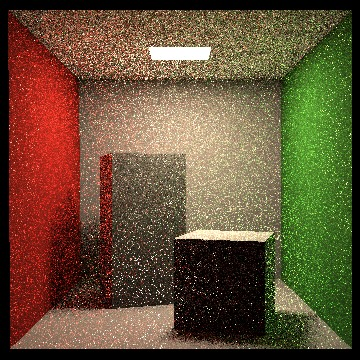
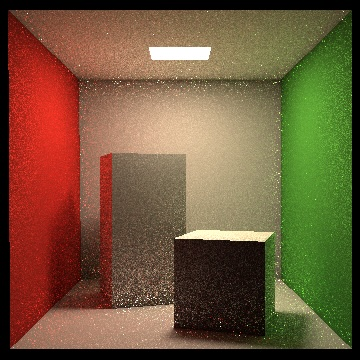
update README.md

diff --git a/src/Renderer.cpp b/src/Renderer.cpp
@@ -18,8 +18,8 @@ void render_thread(std::vector<Vector3f>& framebuffer0, std::vector<Vector3f>& f
         for (int j = 0; j < scene.width; j++) {
             int index = i * scene.width + j;
             for (int k = 0; k < spp; k++) {
-//                framebuffer0[index] += scene.pathTracing(scene.camera_->generateRay(i, j), 0) / spp;
-                framebuffer0[index] += scene.bidirectionalPathTracing(scene.camera_->generateRay(i, j), framebuffer1) / spp;
+                framebuffer0[index] += scene.pathTracing(scene.camera_->generateRay(i, j), 0) / spp;
+//                framebuffer0[index] += scene.bidirectionalPathTracing(scene.camera_->generateRay(i, j), framebuffer1) / spp;
             }
         }
         {

diff --git a/README.md b/README.md
@@ -2,7 +2,7 @@
 
 ## Introduction
 
-This program provides a detailed implementation of a fundamental paper in rendering, focusing on Bidirectional Path Tracing (BDPT), Multiple Importance Sampling (MIS). The whole project is written in pure C++ based on the architecture of path tracing assignment from GAMES101.
+This program provides a detailed implementation of a fundamental paper in rendering, focusing on Bidirectional Path Tracing (BDPT), Multiple Importance Sampling (MIS). The whole project is written in pure C++ based on the architecture of path tracing assignment from GAMES101 by Prof. Lingqi Yan (UCSB).
 
 ## Example
 
@@ -12,46 +12,56 @@ This program provides a detailed implementation of a fundamental paper in render
 
 ## Tutorial
 
-1. Create a build file folder in the directory
+Create a build file folder in the directory:
+```bash
+mkdir build
+```
 
-2. Running cmake file
+Enter the build file folder:
+```bash
+cd build
+```
 
-   ```
-   cmake.
-   ```
+Running cmake file:
+```bash
+cmake ..
+```
 
-3. ```
-   ./BidirecionalPathTracing
-   ```
+Compile the project:
+```bash
+make
+```
 
-   An image file named "binary.ppm" would appear in the directory.
+Run the project:
+```bash
+./BidirectionalPathTracing
+```
+
+An image file named `binary.ppm` would appear in the directory.
 
 ## Theory
 
-### 1. Bidirectional Path Tracing Architecture
+### Bidirectional Path Tracing Architecture
 
-#### 1.1 Path Weight Calculation
+#### Path Weight Calculation
 
 For a path $x = x_0x_1x_2x_3x_4$:
 
 $$ f_j(x) = L_e(x_0 \rightarrow x_1) G(x_0 \leftrightarrow x_1) f_s(x_0 \rightarrow x_1 \rightarrow x_2) G(x_1 \leftrightarrow x_2) f_s(x_1 \rightarrow x_2 \rightarrow x_3) G(x_2 \leftrightarrow x_3) f_s(x_2 \rightarrow x_3 \rightarrow x_4) G(x_3 \leftrightarrow x_4) W_e(x_3 \rightarrow x_4) $$
 
-#### 1.2 Unweighted Path
+#### Unweighted Path
 
 The unweighted contribution can be written as $C^*_{s,t}$:
 
-$$C^*_{s,t} \equiv $$
+$$ \frac{f_j(x_{s,t})}{p_{s,t}(x_{s,t})} \equiv \alpha^L_s c_{s,t} \alpha^E_t $$
 
-$$\frac{f_j(x_{s,t})}{p_{s,t}(x_{s,t})} \equiv \alpha^L_s c_{s,t} \alpha^E_t$$
-
-
-#### 1.3 Path Weights
+#### Path Weights
 
 Using power heuristic weights:
 
 $$ w_k(p_s) = \frac{p_s^2}{\sum_i p_i^2} = \frac{1}{\sum_i \left(\frac{p_i}{p_s}\right)^2} $$
 
-### 2. Importance Flow and Radiance Flow
+### Importance Flow and Radiance Flow
 
 The light transport equation:
 
@@ -61,39 +71,9 @@ Importance transfer for sensors:
 
 $$ W(x, \omega_o) = W_e(x, \omega_o) + \int_{S^2} W(M(x, \omega_i), -\omega_i) f_s(x, \omega_o \rightarrow \omega_i) d\sigma^\perp_x(\omega_i) $$
 
-### 3. Asymmetric Scattering Issues
+## Notice
 
-Asymmetric scattering occurs with refraction or when shading normals are used. This section discusses handling these issues correctly in BDPT using corresponding adjoint BSDFs.
-
-#### 3.1 Causes of Asymmetric Scattering
-
-When light undergoes refraction, the use of shading normals introduces asymmetry in BSDF calculations.
-
-#### 3.2 Empirical Models and Asymmetry
-
-For example, in the Phong reflection model:
-
-$$ L_o(\omega_o) = \int_{H^2_i} C_r \max(0, \omega_i \cdot M_N(x)(\omega_o))^n L_i(\omega_i) d\sigma(\omega_i) $$
-
-### 4. Refraction Asymmetry
-
-#### 4.1 Refraction BSDF
-
-Deriving explicit formulas for BSDF and adjoint BSDF, and discussing their implications in bidirectional rendering algorithms.
-
-#### 4.2 Adjoint BSDF for Refraction
-
-$$ f^*_s(\omega_i \rightarrow \omega_t) = f_s(\omega_t \rightarrow \omega_i) = \left(\frac{\eta_i}{\eta_t}\right)^2 f_s(\omega_i \rightarrow \omega_t) $$
-
-#### 4.3 Results and Discussion
-
-Proper handling of refraction leads to accurate rendering results. Incorrect scaling in particle tracing results in overly bright caustics.
-
-### 5. Shading Normal Asymmetry
-
-Shading normals can introduce asymmetry by altering BSDF calculations:
-
-$$ f_s(\omega_i \rightarrow \omega_o) = f_{s,N_s}(\omega_i \rightarrow \omega_o) \frac{|\omega_i \cdot N_s|}{|\omega_i \cdot N_g|} $$
+This project is still under development. More features will be added in the future. And there might be still some bugs in the implementation of the BDPT algorithm.
 
 ## References
 
